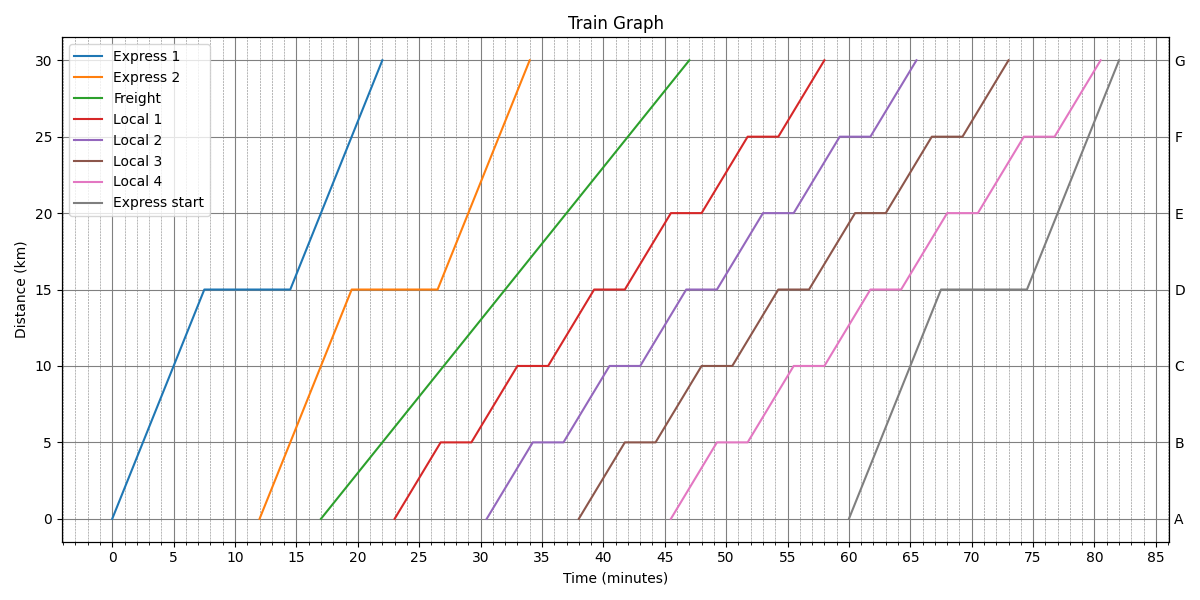
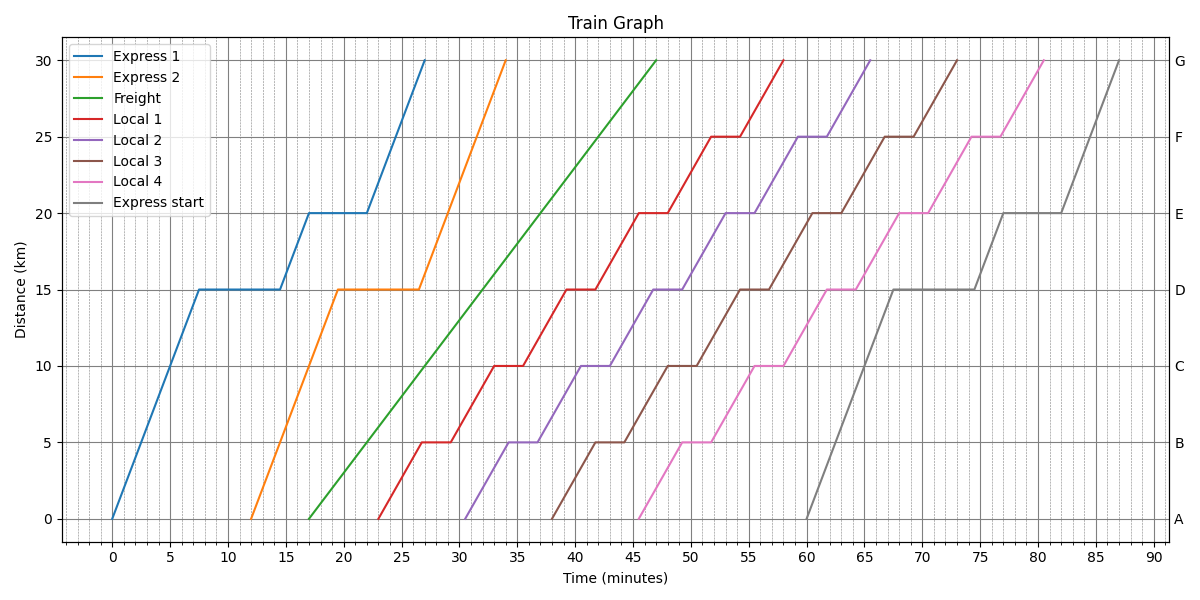
Added delay to extra activities
- added function to allow the express service to be delayed
- this maintains headway in the timetable

diff --git a/train-generator/main.py b/train-generator/main.py
@@ -94,6 +94,21 @@ def get_express_movement(departure: Minutes, network: Network) -> TrainMovement:
     )
 
 
+def get_express_delayed_movement(
+    departure: Minutes, network: Network, delay_stop: StationName, delay_time: Minutes
+) -> TrainMovement:
+    express_dwell: Minutes = 7.0
+    express_velocity: KMPH = 120.0
+    express_route: Route = [
+        Stop("D", express_dwell),
+        Stop(delay_stop, delay_time),
+        Stop("G", 0.0),
+    ]
+    return get_train_movement(
+        Timetable(express_route, "A", departure), express_velocity, network
+    )
+
+
 def get_local_movement(departure: Minutes, network: Network) -> TrainMovement:
     local_dwell: Minutes = 2.5
     local_velocity: KMPH = 80.0
@@ -192,7 +207,7 @@ def run_activity():
         "Express 1": get_express_movement(0, network),
         "Local 1": get_local_movement(5, network),
         "Local (extra)": get_local_movement(12.5, network),
-        "Express 2": get_express_movement(30, network),
+        "Express 2": get_express_delayed_movement(30, network, "F", 4),
         "Local 2": get_local_movement(35, network),
         "Freight 2": get_freight_movement(46, network),
         "Express start": get_express_movement(60, network),
@@ -201,14 +216,14 @@ def run_activity():
 
     # grouped spacing
     grouped_movements = {
-        "Express 1": get_express_movement(0, network),
+        "Express 1": get_express_delayed_movement(0, network, "E", 5),
         "Express 2": get_express_movement(12, network),
         "Freight": get_freight_movement(17, network),
         "Local 1": get_local_movement(23, network),
         "Local 2": get_local_movement(23 + 7.5, network),
         "Local 3": get_local_movement(23 + 2 * 7.5, network),
         "Local 4": get_local_movement(23 + 3 * 7.5, network),
-        "Express start": get_express_movement(60, network),
+        "Express start": get_express_delayed_movement(60, network, "E", 5),
     }
     plot_train_movements(grouped_movements, "activity-grouped.png", network)
 
